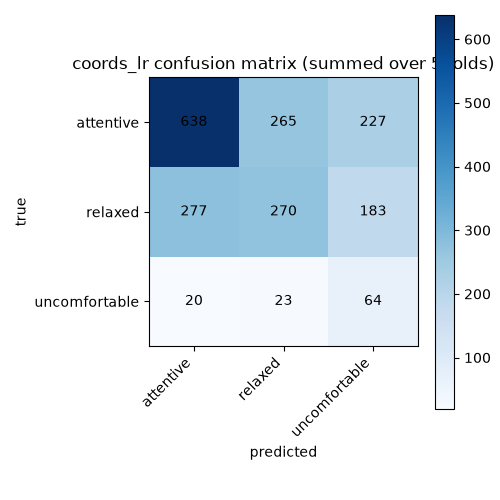
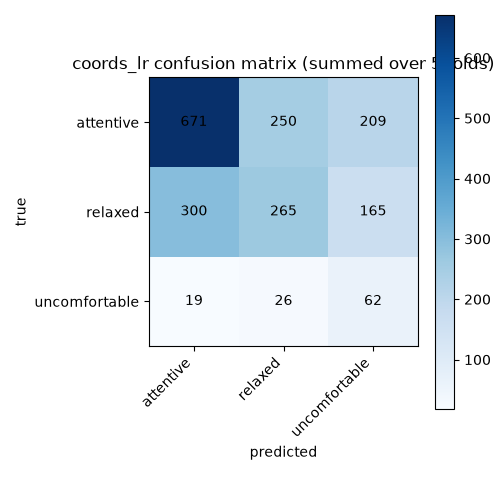
chore(e2): regenerate baseline artifacts with new metrics and oversampling
Re-ran scripts/baselines.py against the existing data/cache/splits.csv
(untouched). README now reports kappa/MCC per model and a random-baseline
reference section. Q2 verdict unchanged (still NO MATCH; gap widened
from 0.029 to 0.033 macro F1 under oversampling).

diff --git a/experiments/e2/README.md b/experiments/e2/README.md
@@ -1,7 +1,7 @@
 # experiments/e2 — baselines
 
 ## What this is
-RSCH-2 asks Q2: does a learned model beat two geometric ratios (eye aperture, ear angle) fed to logistic regression? That was the original framing at grooming. Per direct user instruction after grooming (2026-09-19), model (1) below was extended to a third geometric feature, muzzle spread (`muzzle_spread_ratio`), so it no longer matches Q2's original two-ratio framing exactly -- see `docs/backlog.md` RSCH-2. This run trains three baseline models on cat-emotions-3, plausible rows only, the three usable classes (attentive, relaxed, uncomfortable), on identical stratified 5-fold splits with balanced class weights. Produced by `uv run python scripts/make_splits.py` then `uv run python scripts/baselines.py`.
+RSCH-2 asks Q2: does a learned model beat two geometric ratios (eye aperture, ear angle) fed to logistic regression? That was the original framing at grooming. Per direct user instruction after grooming (2026-09-19), model (1) below was extended to a third geometric feature, muzzle spread (`muzzle_spread_ratio`), so it no longer matches Q2's original two-ratio framing exactly -- see `docs/backlog.md` RSCH-2. Per a second direct user instruction (2026-09-20), the balancing mechanism changed from inverse-frequency class weights to random oversampling of minority classes on the training folds only (`oversample_to_balance`), and each model now also reports Cohen's kappa and MCC alongside macro F1, with a uniform-random classifier run as a chance-level reference. This run trains three baseline models on cat-emotions-3, plausible rows only, the three usable classes (attentive, relaxed, uncomfortable), on identical stratified 5-fold splits. Produced by `uv run python scripts/make_splits.py` then `uv run python scripts/baselines.py`.
 
 ## Input
 Rows: 1967. Per-class counts:
@@ -15,78 +15,91 @@ Split recipe: `StratifiedKFold(n_splits=5, shuffle=True, random_state=0)` over `
 ### ratios_lr
 `n_features` = 3.
 
-| fold | macro F1 |
-|---|---|
-| 0 | 0.350 |
-| 1 | 0.388 |
-| 2 | 0.404 |
-| 3 | 0.391 |
-| 4 | 0.378 |
-| **mean** | **0.382 +/- 0.018** |
+| fold | macro F1 | kappa | MCC |
+|---|---|---|---|
+| 0 | 0.340 | 0.117 | 0.131 |
+| 1 | 0.429 | 0.210 | 0.214 |
+| 2 | 0.396 | 0.179 | 0.185 |
+| 3 | 0.391 | 0.180 | 0.186 |
+| 4 | 0.368 | 0.084 | 0.087 |
+| **mean** | **0.385 +/- 0.030** | **0.154 +/- 0.046** | **0.161 +/- 0.046** |
 
 Confusion matrix (rows = true, columns = predicted, summed over 5 folds):
 
 | true \ pred | attentive | relaxed | uncomfortable |
 |---|---|---|---|
-| attentive | 708 | 222 | 200 |
-| relaxed | 286 | 247 | 197 |
-| uncomfortable | 46 | 35 | 26 |
+| attentive | 710 | 217 | 203 |
+| relaxed | 284 | 245 | 201 |
+| uncomfortable | 44 | 35 | 28 |
 
 Plot: `plots/ratios_lr_confusion_matrix.png`.
 
 ### coords_lr
 `n_features` = 96.
 
-| fold | macro F1 |
-|---|---|
-| 0 | 0.435 |
-| 1 | 0.425 |
-| 2 | 0.455 |
-| 3 | 0.386 |
-| 4 | 0.394 |
-| **mean** | **0.419 +/- 0.026** |
+| fold | macro F1 | kappa | MCC |
+|---|---|---|---|
+| 0 | 0.435 | 0.169 | 0.175 |
+| 1 | 0.431 | 0.197 | 0.206 |
+| 2 | 0.479 | 0.246 | 0.256 |
+| 3 | 0.394 | 0.163 | 0.170 |
+| 4 | 0.391 | 0.098 | 0.102 |
+| **mean** | **0.426 +/- 0.032** | **0.174 +/- 0.048** | **0.182 +/- 0.050** |
 
 Confusion matrix (rows = true, columns = predicted, summed over 5 folds):
 
 | true \ pred | attentive | relaxed | uncomfortable |
 |---|---|---|---|
-| attentive | 638 | 265 | 227 |
-| relaxed | 277 | 270 | 183 |
-| uncomfortable | 20 | 23 | 64 |
+| attentive | 671 | 250 | 209 |
+| relaxed | 300 | 265 | 165 |
+| uncomfortable | 19 | 26 | 62 |
 
 Plot: `plots/coords_lr_confusion_matrix.png`.
 
 ### mlp
 `n_features` = 96.
 
-| fold | macro F1 |
-|---|---|
-| 0 | 0.426 |
-| 1 | 0.417 |
-| 2 | 0.413 |
-| 3 | 0.422 |
-| 4 | 0.376 |
-| **mean** | **0.411 +/- 0.018** |
+| fold | macro F1 | kappa | MCC |
+|---|---|---|---|
+| 0 | 0.427 | 0.155 | 0.161 |
+| 1 | 0.443 | 0.211 | 0.219 |
+| 2 | 0.421 | 0.157 | 0.167 |
+| 3 | 0.423 | 0.179 | 0.184 |
+| 4 | 0.376 | 0.073 | 0.076 |
+| **mean** | **0.418 +/- 0.023** | **0.155 +/- 0.046** | **0.161 +/- 0.047** |
 
 Confusion matrix (rows = true, columns = predicted, summed over 5 folds):
 
 | true \ pred | attentive | relaxed | uncomfortable |
 |---|---|---|---|
-| attentive | 735 | 217 | 178 |
-| relaxed | 363 | 191 | 176 |
-| uncomfortable | 23 | 18 | 66 |
+| attentive | 742 | 218 | 170 |
+| relaxed | 363 | 203 | 164 |
+| uncomfortable | 23 | 20 | 64 |
 
 Plot: `plots/mlp_confusion_matrix.png`.
+
+## Random-classifier reference
+`DummyClassifier(strategy="uniform", random_state=0)`, run on the identical 5-fold splits as the three models above -- a chance-level reference, excluded from the Q2 verdict and from the macro-F1 comparison plot.
+
+| metric | mean +/- std |
+|---|---|
+| macro F1 | 0.302 +/- 0.000 |
+| kappa | 0.017 +/- 0.001 |
+| MCC | 0.018 +/- 0.001 |
+
+Plot: `plots/random_baseline_confusion_matrix.png`.
 
 ## Required controls
 - [x] Identical splits across all three models: all three read `data/cache/splits.csv`, written once by `scripts/make_splits.py`.
 - [x] 5-fold: `n_splits=5` in `catface.ml.splits.make_splits` and `catface.ml.cv.cross_validate`.
 - [x] Macro F1 reported (not accuracy alone): per-fold and mean +/- std, above.
 - [x] Confusion matrix per model: above, summed over folds.
-- [x] Balanced class weights: `class_weight="balanced"` (LR models), `nn.CrossEntropyLoss(weight=...)` computed via `sklearn.utils.class_weight.compute_class_weight("balanced", ...)` (MLP).
+- [x] Balancing: random oversampling of minority classes on the training folds only (`catface.ml.cv.oversample_to_balance`, via `sklearn.utils.resample`), applied inside `cross_validate` before each fold's `.fit()`; test folds keep the original imbalanced distribution untouched.
+- [x] Cohen's kappa and MCC reported alongside macro F1, per fold and mean +/- std.
+- [x] Random-classifier reference included: `DummyClassifier(strategy="uniform")` on the identical folds, reported separately, excluded from the Q2 verdict.
 
 ## Q2 verdict
-Model (1) ratios_lr scores mean macro F1 0.382. Model (3) mlp scores 0.411, std 0.018 across folds. The gap between them is 0.029, beyond one CV std of model (3)'s macro F1: **NO MATCH**. The MLP clears the three-ratio baseline by more than one fold's worth of its own noise, so Q2's answer here is that the learned model does find signal past eye aperture, ear angle, and muzzle spread.
+Model (1) ratios_lr scores mean macro F1 0.385. Model (3) mlp scores 0.418, std 0.023 across folds. The gap between them is 0.033, beyond one CV std of model (3)'s macro F1: **NO MATCH**. The MLP clears the three-ratio baseline by more than one fold's worth of its own noise, so Q2's answer here is that the learned model does find signal past eye aperture, ear angle, and muzzle spread.
 
 ## Citations
 - CatFLW (landmark scheme, Finka et al.) and the Finka landmark scheme: see `docs/MODEL_REPORT.md` Citations.
